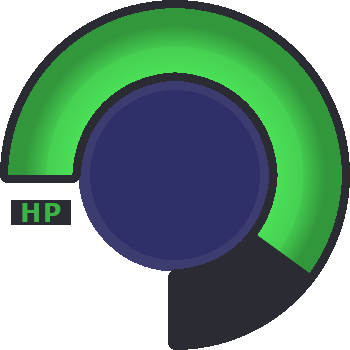
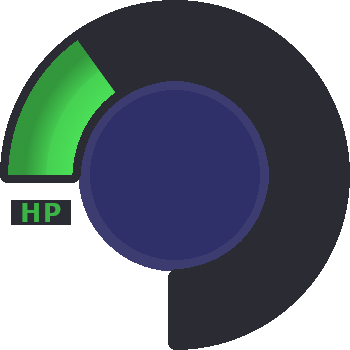
RASEステート修正 プレイヤーUI追加、LARGEのパンチ修正、押し出し判定全敵に追加、LARGEの正面無敵判定

Changed region(s): [[0.2286, 0.0, 1.0, 0.7714]]

diff --git a/Project/BaseProject/Src/Object/Charactor/Player/PlayerAirborneState.cpp b/Project/BaseProject/Src/Object/Charactor/Player/PlayerAirborneState.cpp
@@ -80,6 +80,7 @@ void PlayerAirborneState::Update(Player* player)
 	if (!player->IsJump())
 	{
 		player->ChangeState(Player::STATE::IDLE);
+		player->SetAttacking(false);
 		return;
 	}
 
@@ -154,6 +155,7 @@ void PlayerAirborneState::Update(Player* player)
 			//else
 			{
 				player->ChangeState(Player::STATE::RUN);
+				player->SetAttacking(false);
 				return;
 			}
 		}

diff --git a/Project/BaseProject/Src/Object/Charactor/Enemy/Rat/EnemyRat.cpp b/Project/BaseProject/Src/Object/Charactor/Enemy/Rat/EnemyRat.cpp
@@ -171,7 +171,7 @@ void EnemyRat::UpdateProcess()
 	PushOutSphere(transform_.pos, pushOutRadius_,
 		player_->GetPos(), player_->GetCollRadius(), true);
 
-
+	//攻撃判定
 	preHp_ = hp_;
 
 	CheckPlayerSwordCollision();
